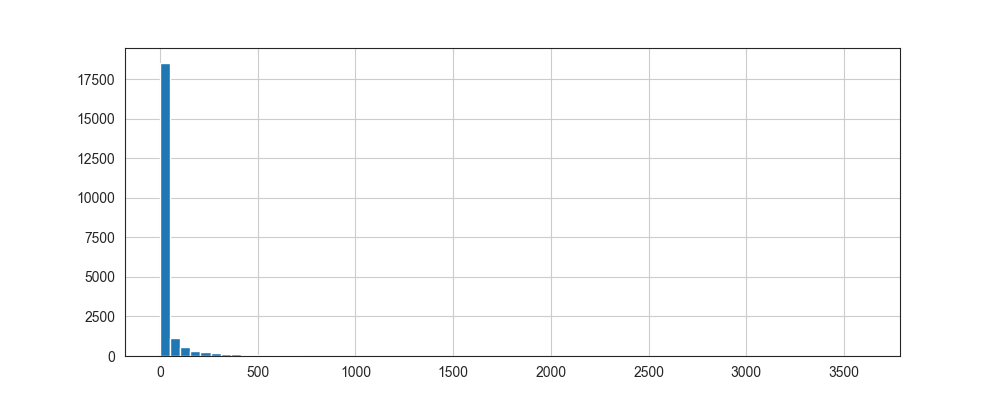
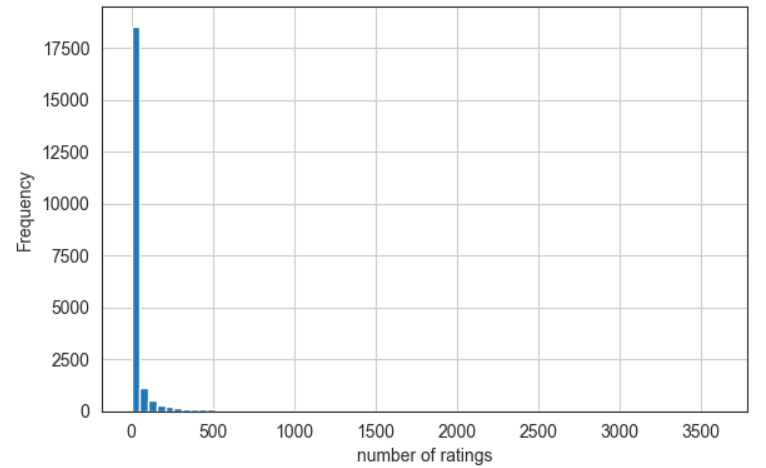
Visulaization outputs

diff --git a/recommender_system.py b/recommender_system.py
@@ -184,6 +184,7 @@ if(mode == 1):
 
 def show_histogram_num_of_ratings():
     plt.hist(ratings['rating_numbers'], bins=70)
+
     plt.title("Number of ratings histogram")
     plt.show()
 
@@ -208,10 +209,15 @@ if(mode == 1):
     ratings.head()
 
     plt.figure(figsize=(10, 4))
+    plt.xlabel('number of ratings')
+    plt.ylabel('Frequency')
     ratings['num of ratings'].hist(bins=70)
+
     plt.show()
 
     plt.figure(figsize=(10, 4))
+    plt.xlabel('ratings')
+    plt.ylabel('users')
     ratings['rating'].hist(bins=70)
     plt.show()
 
